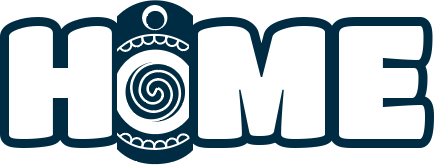
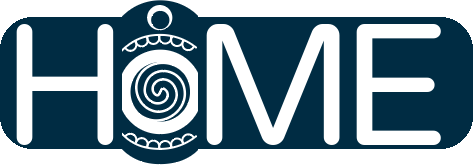
fix: 🌀 HOME 글자 굵기·구조를 GOBLUB 로고와 동일하게 — 통짜 네이비 판 + 12px 흰 라인 글자
로고 실측: 글자는 12px 흰 라인(Varela Round와 동일 비율), 판 밴드 y17~148, 여백 16px.
Titan One(획 44px)이 굵어 보였던 원인 — 같은 획 굵기의 폰트 + 판 구조로 재합성.

diff --git a/js/common.js b/js/common.js
@@ -88,7 +88,7 @@
   var logoHTML = isHome
     ? '<img class="logo-img" src="' + root + '/img/logo.png?v=1" alt="goblub" />'
     : // 서브 페이지 HOME — GOBLUB 로고와 같은 서체·크기, O는 로고의 고브럽 머리 그대로
-      '<img class="logo-img" src="' + root + '/img/home.png?v=1" alt="Home" />';
+      '<img class="logo-img" src="' + root + '/img/home.png?v=2" alt="Home" />';
   var headerHTML =
     '<header class="site-header">' +
     '<a class="logo" href="' + root + '/index.html">' + logoHTML + "</a>" +

diff --git a/play/goblub.html b/play/goblub.html
@@ -88,7 +88,7 @@
     <p class="fine-print">고브럽은 이 브라우저에서 자라요 — 브라우저를 바꾸면 새 알을 만나게 됩니다 🥚</p>
   </main>
   <div id="site-footer"></div>
-  <script src="../js/common.js?v=14" data-root=".."></script>
+  <script src="../js/common.js?v=15" data-root=".."></script>
   <script src="js/feed.js?v=10"></script>
   <script src="js/goblub-art.js"></script>
   <script>

diff --git a/play/cookie.html b/play/cookie.html
@@ -165,7 +165,7 @@ video::-webkit-media-controls-overlay-play-button{display:none!important;-webkit
   <p class="hintbar" id="hintbar">쿠키를 건네면, 해달이 배 위에 올려 조개로 깨 준다달.</p>
 </div>
 
-<script src="../js/common.js?v=14" data-root=".."></script>
+<script src="../js/common.js?v=15" data-root=".."></script>
 <script src="js/feed.js?v=10"></script>
 <script>
 var IMG="img/otter/",

diff --git a/play/mini.html b/play/mini.html
@@ -161,7 +161,7 @@
     <p class="fine-print" style="margin-top:24px">가볍게 즐겨주세요 🙂</p>
   </main>
   <div id="site-footer"></div>
-  <script src="../js/common.js?v=14" data-root=".."></script>
+  <script src="../js/common.js?v=15" data-root=".."></script>
   <script src="js/hub-fan.js?v=2" data-root=".."></script>
   <script>
     // 행성 클릭 메뉴(홈과 동일) — 데스크톱 전용

diff --git a/play/mini2.html b/play/mini2.html
@@ -145,7 +145,7 @@
     <p class="fine-print" style="margin-top:24px">가볍게 즐겨주세요 🙂</p>
   </main>
   <div id="site-footer"></div>
-  <script src="../js/common.js?v=14" data-root=".."></script>
+  <script src="../js/common.js?v=15" data-root=".."></script>
   <script src="js/hub-fan.js?v=2" data-root=".."></script>
   <script>
     // 행성 클릭 메뉴(홈과 동일) — 데스크톱 전용

diff --git a/apps.html b/apps.html
@@ -173,7 +173,7 @@
 
   <div id="site-footer"></div>
   <script src="play/js/goblub-art.js"></script>
-  <script src="js/common.js?v=14" data-root="."></script>
+  <script src="js/common.js?v=15" data-root="."></script>
   <script src="play/js/hub-fan.js?v=2" data-root="."></script>
   <script>
     // 행성 클릭 메뉴(홈과 동일) — 데스크톱 전용. 앱 페이지에서는 홈/로그인으로

diff --git a/play/naming.html b/play/naming.html
@@ -43,7 +43,7 @@
     <p class="fine-print">이름은 참고용이에요 — 마음에 드는 걸 골라 쓰세요 🙂</p>
   </main>
   <div id="site-footer"></div>
-  <script src="../js/common.js?v=14" data-root=".."></script>
+  <script src="../js/common.js?v=15" data-root=".."></script>
   <script src="js/feed.js?v=10"></script>
   <script src="js/dosa.js?v=2"></script>
   <script>

diff --git a/play/chatroom.html b/play/chatroom.html
@@ -21,7 +21,7 @@
     <section class="panel"><div id="quiz"></div></section>
   </main>
   <div id="site-footer"></div>
-  <script src="../js/common.js?v=14" data-root=".."></script>
+  <script src="../js/common.js?v=15" data-root=".."></script>
   <script src="js/feed.js?v=10"></script>
   <script src="js/quiz.js?v=4"></script>
   <script src="js/sharecard.js"></script>

diff --git a/play/foodtype.html b/play/foodtype.html
@@ -21,7 +21,7 @@
     <section class="panel"><div id="quiz"></div></section>
   </main>
   <div id="site-footer"></div>
-  <script src="../js/common.js?v=14" data-root=".."></script>
+  <script src="../js/common.js?v=15" data-root=".."></script>
   <script src="js/feed.js?v=10"></script>
   <script src="js/quiz.js?v=4"></script>
   <script src="js/sharecard.js"></script>

diff --git a/play/love-test.html b/play/love-test.html
@@ -21,7 +21,7 @@
     <section class="panel"><div id="quiz"></div></section>
   </main>
   <div id="site-footer"></div>
-  <script src="../js/common.js?v=14" data-root=".."></script>
+  <script src="../js/common.js?v=15" data-root=".."></script>
   <script src="js/feed.js?v=10"></script>
   <script src="js/quiz.js?v=4"></script>
   <script src="js/sharecard.js"></script>

diff --git a/play/stress-test.html b/play/stress-test.html
@@ -26,7 +26,7 @@
     <section class="panel"><div id="quiz"></div></section>
   </main>
   <div id="site-footer"></div>
-  <script src="../js/common.js?v=14" data-root=".."></script>
+  <script src="../js/common.js?v=15" data-root=".."></script>
   <script src="js/feed.js?v=10"></script>
   <script src="js/quiz.js?v=4"></script>
   <script src="js/sharecard.js"></script>

diff --git a/play/zombie.html b/play/zombie.html
@@ -21,7 +21,7 @@
     <section class="panel"><div id="quiz"></div></section>
   </main>
   <div id="site-footer"></div>
-  <script src="../js/common.js?v=14" data-root=".."></script>
+  <script src="../js/common.js?v=15" data-root=".."></script>
   <script src="js/feed.js?v=10"></script>
   <script src="js/quiz.js?v=4"></script>
   <script src="js/sharecard.js"></script>
